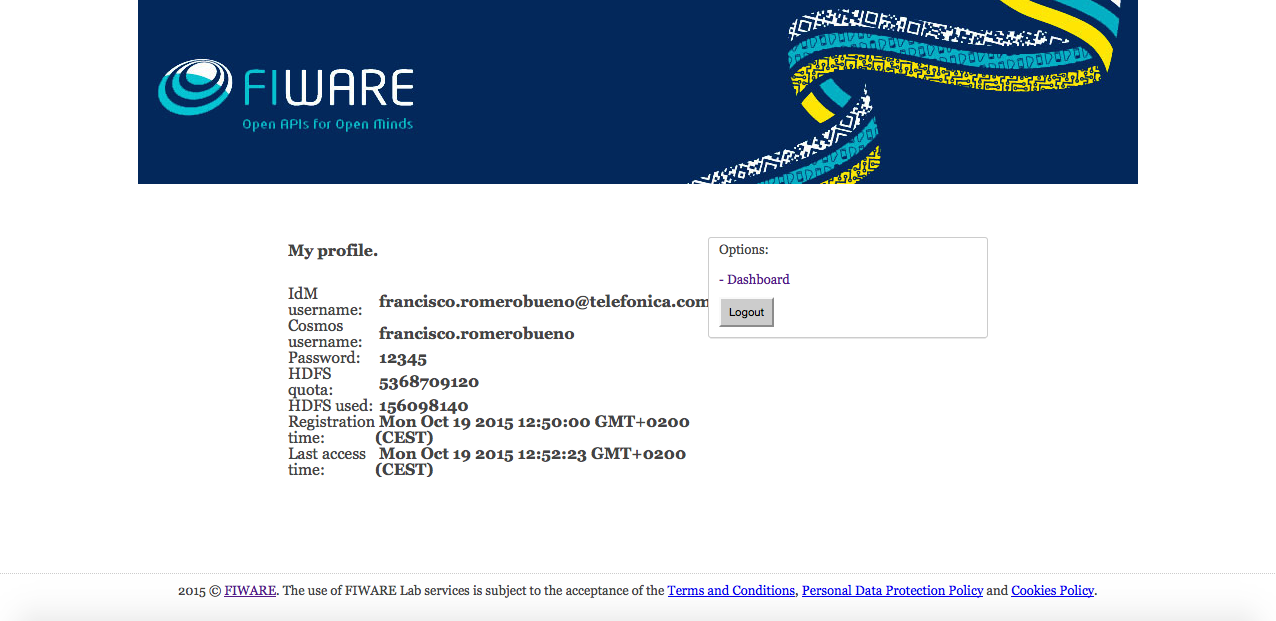
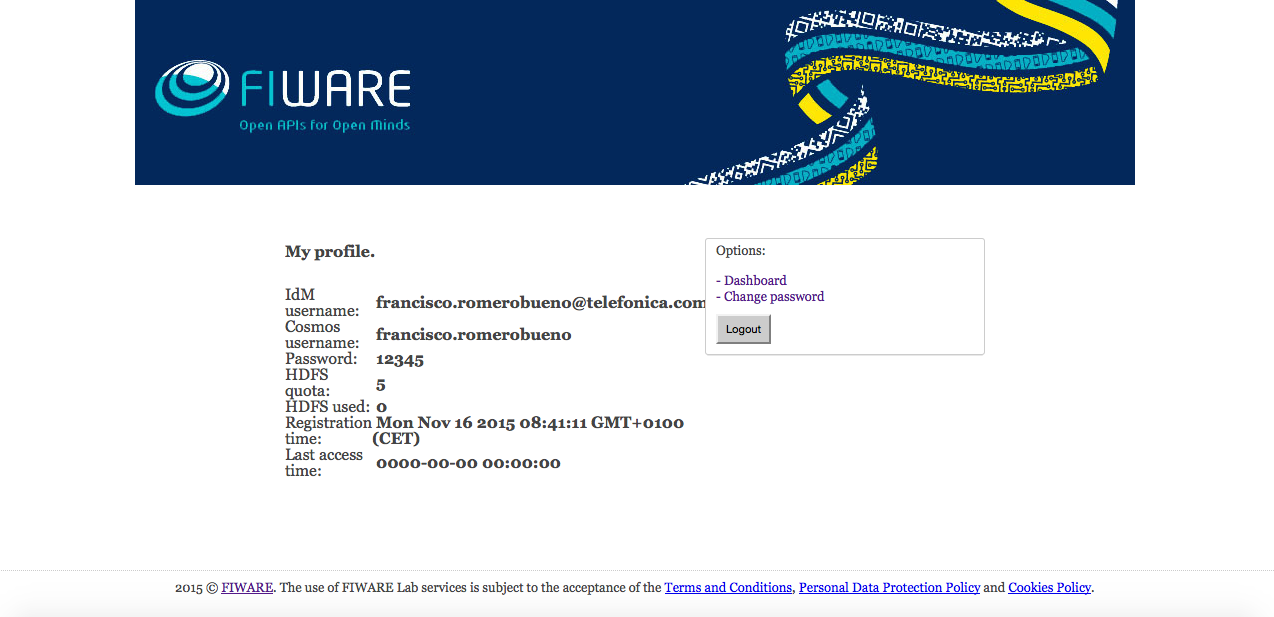
ADD a page for changing the Cosmos password

diff --git a/cosmos-gui/src/app.js b/cosmos-gui/src/app.js
@@ -191,7 +191,7 @@ app.post('/new_account', function(req, res) {
 
 app.post('/new_password', function(req, res) {
     var idm_username = req.session.idm_username;
-    var username = req.username;
+    var username = req.session.username;
     var password1 = req.body.password1;
     var password2 = req.body.password2;
 
@@ -207,6 +207,42 @@ app.post('/new_password', function(req, res) {
         })
     } else {
         res.redirect('/');
+    } // if else
+});
+
+app.get('/change_password', function(req, res) {
+    res.render('change_password');
+});
+
+app.post('/change_password', function(req, res) {
+    var idm_username = req.session.idm_username;
+    var username = req.session.username;
+    var password1 = req.body.password1;
+    var password2 = req.body.password2;
+
+    if (password1 === password2) {
+        mysqlDriver.addPassword(idm_username, password1, function(error, result) {
+            if (error) {
+                var boomError = boom.badData('There was an error while setting up the password for user ' + username, error);
+                logger.error('There was an error while setting up the password for user ' + username, error);
+                res.status(boomError.output.statusCode).send(boomError.output.payload.message);
+            } else {
+                logger.info('Successful information added to the database for user ' + username);
+
+                if (scEndpoint === ccEndpoint) {
+                    // Just one provision step instead of two
+                    appUtils.provisionPassword(res, scPrivKey, scUser, scEndpoint, username, password1);
+                } else {
+                    // Two different provision steps
+                    appUtils.provisionPassword(res, scPrivKey, scUser, scEndpoint, username, password1);
+                    appUtils.provisionPassword(res, ccPrivKey, ccUser, ccEndpoint, username, password1);
+                } // if else
+
+                res.redirect('/profile');
+            } // if else
+        })
+    } else {
+        res.render('change_password');
     } // if else
 });
 

diff --git a/cosmos-gui/src/app_utils.js b/cosmos-gui/src/app_utils.js
@@ -111,6 +111,21 @@ function provisionCluster(res, clusterPrivKey, clusterUser, clusterEndpoint, hdf
     })
 } // provisionCluster
 
+function provisionPassword(res, clusterPrivKey, clusterUser, clusterEndpoint, username, password) {
+    cmdRunner.run('ssh', ['-tt', '-i', clusterPrivKey, clusterUser + '@' + clusterEndpoint,
+        'echo ' + password + ' | sudo passwd ' + username + ' --stdin'], function(error, result) {
+        if (error) {
+            var boomError = boom.badData('There was an error while setting the password for user ' + username, error);
+            logger.error('There was an error while setting the password for user ' + username);
+            res.status(boomError.output.statusCode).send(boomError.output.payload.message);
+            return;
+        } // if
+
+        logger.info('Successful command executed: \'ssh -tt -i ' + clusterPrivKey + ' ' + clusterUser + '@' + clusterEndpoint
+            + ' \"echo ' + password + ' | sudo passwd ' + username + ' --stdin | sudo bash\"\'');
+    })
+} // provisionPassword
+
 function buildUsername(username, index, callback) {
     if (usersBlacklist.indexOf(username) > -1) {
         logger.error('The base username "' + username + '" is not allowed');
@@ -132,5 +147,6 @@ function buildUsername(username, index, callback) {
 
 module.exports = {
     provisionCluster: provisionCluster,
+    provisionPassword: provisionPassword,
     buildUsername: buildUsername
 } // module.exports

diff --git a/cosmos-gui/README.md b/cosmos-gui/README.md
@@ -17,6 +17,7 @@
         * [Migration from an old version of Cosmos](#migration)
     * [Dashboard](#dashboard)
     * [Profile](#profile)
+        * [Change password](#changepassword)
 * [Administration](#administration)
     * [Logging traces](#loggingtraces)
     * [Database](#database)
@@ -335,7 +336,7 @@ The only option for the time being is to access to the profile page (see next se
 [Top](#top)
 
 ###<a name="profile"></a>Profile
-The profile section of dashboard shows the user account details and certain statistics, such as the HDFS quota usage.
+The profile section shows the user account details and certain statistics, such as the HDFS quota usage.
 
 This is useful in order to know the credentials the user has in the Cosmos platform.
 
@@ -343,8 +344,14 @@ This is useful in order to know the credentials the user has in the Cosmos platf
 
 [Top](#top)
 
-##<a name="administration"></a>Administration
+####<a name="changepassword"></a>Change password
+This option within the profile page will allow to change the Cosmos account password by simply typing (and retyping) a new one.
 
+![](doc/images/cosmos_gui__change_password.png)
+
+[Top](#top)
+
+##<a name="administration"></a>Administration
 Two are the sources of data, the logs and the database, useful for an administrator of cosmos-gui.
 
 [Top](#top)
